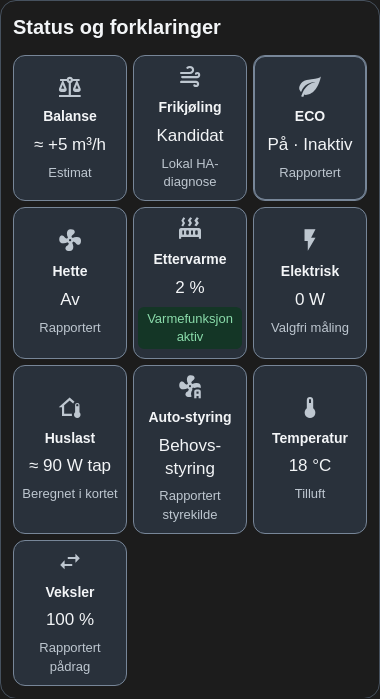
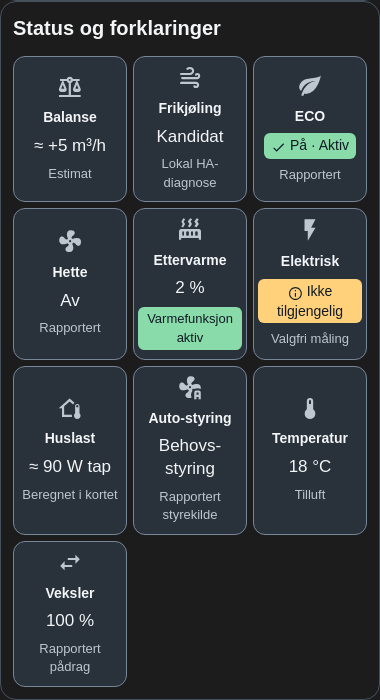
Release 1.6.1: stronger Settings and Status highlights

diff --git a/vsr300-cards.js b/vsr300-cards.js
@@ -1,4 +1,4 @@
-/* VSR300 custom cards · version 1.6.0 · 2026-11-10
+/* VSR300 custom cards · version 1.6.1 · 2026-11-10
  * SPDX-License-Identifier: MIT
  * Copyright (c) 2026 stboee
  * Based on Systemair SVG / Kontrollpanel 4.8.1.
@@ -8,7 +8,7 @@
  */
 (() => {
   'use strict';
-  const VERSION = '1.6.0';
+  const VERSION = '1.6.1';
   const FIELD = (key, label, domain, defaultId, extra = {}) => ({ key, label, domain, defaultId, ...extra });
   const SVG_FIELDS = [
     FIELD('mode', 'Rapportert driftsmodus', 'sensor', 'sensor.systemair_save_modus'),
@@ -719,6 +719,24 @@ const portRow = (role, x, y, height, content) => `<g ${action(role)}><rect class
     .setting-topic{min-height:144px}.settings-menu{gap:8px}.panel-title ha-icon{color:var(--vsr-secondary)}
     @container(max-width:380px){ha-card{padding:12px}.status-grid,.duration-mode-grid{gap:6px}.status-button,.duration-choice{padding:9px 4px}.setting-topic{min-height:144px}}
   `;
+  // Settings and explanations use the same filled highlights as Control.
+  // Kept separate from UI_STYLE so Control and Cockpit remain unchanged.
+  const STRONG_HIGHLIGHT_STYLE = `
+    :host{--vsr-on-status:light-dark(#ffffff,#101a26)}
+    .status-button[aria-expanded=true],.setting-topic[aria-expanded=true]{background:var(--vsr-blue);border-color:var(--vsr-blue);color:var(--vsr-on-blue);box-shadow:none}
+    .status-button[aria-expanded=true]>ha-icon,.setting-topic[aria-expanded=true]>ha-icon{color:inherit}
+    .status-button[aria-expanded=true] .reading:not(.state-chip),.status-button[aria-expanded=true] .kind:not(.state-chip),.setting-topic[aria-expanded=true] .setting-reading,.setting-topic[aria-expanded=true] .setting-sub{color:var(--vsr-on-blue)}
+    @media(hover:hover){.status-button[aria-expanded=true]:hover,.setting-topic[aria-expanded=true]:hover{box-shadow:inset 0 0 0 1px var(--vsr-on-blue)}}
+    .state-chip[data-tone=active],.status-button .reading.state-chip[data-tone=active],.status-button .kind.state-chip[data-tone=active]{background:var(--vsr-green);color:var(--vsr-on-status)}
+    .state-chip[data-tone=attention],.status-button .reading.state-chip[data-tone=attention],.status-button .kind.state-chip[data-tone=attention]{background:var(--vsr-amber);color:var(--vsr-on-status)}
+    .state-chip[data-tone=danger],.status-button .reading.state-chip[data-tone=danger]{background:var(--vsr-red);color:var(--vsr-on-status)}
+    .state-chip ha-icon{color:inherit}
+    .status-button .reading.state-chip{display:block}
+    .status-button .reading.state-chip ha-icon{--mdc-icon-size:15px;margin-right:4px;vertical-align:-3px}
+    .notice{background:var(--vsr-amber);color:var(--vsr-on-status)}
+    .error,.setting-error{background:var(--vsr-red);color:var(--vsr-on-status)}
+    .setting-feedback:not(.setting-error){background:var(--vsr-field);border-left:4px solid var(--vsr-blue)}
+  `;
   // Presentation is scoped to these three cards; Cockpit keeps its own palette.
   class StyledCard extends BaseCard {
     set hass(value) {
@@ -1348,7 +1366,7 @@ const portRow = (role, x, y, height, content) => `<g ${action(role)}><rect class
       if (oldDetails) this._technicalOpen[oldDetails.dataset.technicalTopic] = oldDetails.open;
       const topics = this._visibleTopics(), topic = topics.find(item => item.key === this._selected);
       if (!topic) this._selected = null;
-      this.shadowRoot.innerHTML = `<style>${SHARED_STYLE}${EXPLANATION_STYLE}${UI_STYLE}</style><ha-card>${this._heading()}${this._missingNotice()}<div class="status-grid">${topics.map(item => {
+      this.shadowRoot.innerHTML = `<style>${SHARED_STYLE}${EXPLANATION_STYLE}${UI_STYLE}${STRONG_HIGHLIGHT_STYLE}</style><ha-card>${this._heading()}${this._missingNotice()}<div class="status-grid">${topics.map(item => {
         const status = statuses[item.key];
         const marked = status.tone && status.tone !== 'neutral';
         const marker = status.tone === 'active' ? 'mdi:check' : status.tone === 'danger' ? 'mdi:alert-circle-outline' : 'mdi:information-outline';
@@ -1491,7 +1509,7 @@ const portRow = (role, x, y, height, content) => `<g ${action(role)}><rect class
       for(const detail of this.shadowRoot.querySelectorAll('details[data-details]'))this._detailsOpen[detail.dataset.details]=detail.open;
       const focus=this.shadowRoot.activeElement?.dataset.focusKey||this._pendingFocus;
       const sections=SETTING_SECTIONS.filter(s=>this._config['show_'+s.key]),section=sections.find(s=>s.key===this._section),summaries=this._summaries();if(!section)this._section=null;
-      this.shadowRoot.innerHTML=`<style>${SHARED_STYLE}${SETTINGS_STYLE}${UI_STYLE}</style><ha-card>${this._heading()}<div class="settings-menu">${sections.map(s=>`<button class="setting-topic" type="button" data-section="${s.key}" data-focus-key="topic-${s.key}" aria-expanded="${this._section===s.key}" aria-controls="settings-content"><ha-icon icon="${s.icon}" aria-hidden="true"></ha-icon><strong>${s.name}</strong><span class="setting-reading">${escape(summaries[s.key].label)}</span><span class="setting-sub">${escape(summaries[s.key].sub)}</span></button>`).join('')}</div><div class="setting-feedback" role="status">${escape(this._message)}</div><div class="setting-feedback setting-error" role="alert">${escape(this._error)}</div><div id="settings-content">${section?this._panel(section):''}</div>${sections.length?'':'<p>Velg hvilke temaer som skal vises i kortets oppsett.</p>'}</ha-card>`;
+      this.shadowRoot.innerHTML=`<style>${SHARED_STYLE}${SETTINGS_STYLE}${UI_STYLE}${STRONG_HIGHLIGHT_STYLE}</style><ha-card>${this._heading()}<div class="settings-menu">${sections.map(s=>`<button class="setting-topic" type="button" data-section="${s.key}" data-focus-key="topic-${s.key}" aria-expanded="${this._section===s.key}" aria-controls="settings-content"><ha-icon icon="${s.icon}" aria-hidden="true"></ha-icon><strong>${s.name}</strong><span class="setting-reading">${escape(summaries[s.key].label)}</span><span class="setting-sub">${escape(summaries[s.key].sub)}</span></button>`).join('')}</div><div class="setting-feedback" role="status">${escape(this._message)}</div><div class="setting-feedback setting-error" role="alert">${escape(this._error)}</div><div id="settings-content">${section?this._panel(section):''}</div>${sections.length?'':'<p>Velg hvilke temaer som skal vises i kortets oppsett.</p>'}</ha-card>`;
       if(focus)Array.from(this.shadowRoot.querySelectorAll('[data-focus-key]')).find(el=>el.dataset.focusKey===focus)?.focus({preventScroll:true});
     }
   }

diff --git a/README.md b/README.md
@@ -4,7 +4,7 @@ Four Home Assistant cards for Systemair SAVE VSR300: **Systemair SVG**,
 **Systemair Kontrollpanel**, **Systemair Status og forklaringer**, and optional
 **Systemair Innstillinger**,
 with graphical entity selection. Current card
-version: **1.6.0**. Reference setup: HA 2026.10.2 and
+version: **1.6.1**. Reference setup: HA 2026.10.2 and
 [Howard systemair_modbus 1.3.0](https://github.com/Howard0000/home-assistant-systemair-modbus).
 
 [Norsk veiledning](README.nb.md)
@@ -27,7 +27,7 @@ once through HACS. Keep the existing card configurations.
 
 1. Download [vsr300-cards.js](vsr300-cards.js) using GitHub's **Download raw file** button.
 2. Copy it to `/config/www/vsr300/vsr300-cards.js` in Home Assistant. Create the `vsr300` folder if needed.
-3. Add a dashboard resource with URL **`/local/vsr300/vsr300-cards.js?v=1.6.0`** and type **JavaScript module**.
+3. Add a dashboard resource with URL **`/local/vsr300/vsr300-cards.js?v=1.6.1`** and type **JavaScript module**.
 4. Fully reload the browser, edit the dashboard and add the cards you want from the card picker.
 
 ## Configure the cards
@@ -76,7 +76,18 @@ local diagnosis and electrical-meter entities. Clear optional fields you do not
 use. Keep the old YAML card until the new card's configuration is checked, then
 replace it. The SVG and control card configurations stay as they are.
 
-## Changes in 1.6.0
+## Changes in 1.6.1
+
+Settings and Status og forklaringer now use the same stronger filled highlights
+as Control. Open fields are blue; reported activity, missing/uncertain data and
+actual faults have stronger green, amber and red markers with contrasting text
+and icons. Status text retains the meaning; colors do not change measurements.
+
+Cockpit and Control are unchanged apart from the package version. Entity
+bindings, editing, history and all commands are retained. Update through HACS
+and fully reload each browser. Keep existing cards and entity selections.
+
+## History — 1.6.0
 
 Control uses stronger filled highlights. Tap Ildsted, Boost, Party, Borte or
 Ferie directly to open its duration and start options without sending commands.

diff --git a/README.nb.md b/README.nb.md
@@ -3,7 +3,7 @@
 Fire Home Assistant-kort for Systemair SAVE VSR300: **Systemair SVG**,
 **Systemair Kontrollpanel**, **Systemair Status og forklaringer** og det valgfrie
 **Systemair Innstillinger**,
-med grafisk valg av entiteter. Kortversjon: **1.6.0**.
+med grafisk valg av entiteter. Kortversjon: **1.6.1**.
 Referanseoppsettet er HA 2026.10.2 og
 [Howard systemair_modbus 1.3.0](https://github.com/Howard0000/home-assistant-systemair-modbus).
 
@@ -25,7 +25,7 @@ HACS. Behold eksisterende kortoppsett.
 
 1. Last ned [vsr300-cards.js](vsr300-cards.js) med GitHubs **Download raw file**-knapp.
 2. Kopier filen til `/config/www/vsr300/vsr300-cards.js` i Home Assistant. Opprett mappen `vsr300` ved behov.
-3. Legg til en dashboardressurs med URL **`/local/vsr300/vsr300-cards.js?v=1.6.0`** og type **JavaScript-modul**.
+3. Legg til en dashboardressurs med URL **`/local/vsr300/vsr300-cards.js?v=1.6.1`** og type **JavaScript-modul**.
 4. Last nettlesersiden helt på nytt. Rediger dashboardet og legg til kortene du ønsker fra kortvelgeren.
 
 ## Oppsett av kortene
@@ -74,7 +74,18 @@ lokale diagnose- og effektmålerentitetene. Tøm valgfrie felt du ikke bruker.
 Behold det gamle YAML-kortet til oppsettet i det nye er kontrollert, og erstatt
 så det gamle kortet. SVG- og Kontrollpanel-oppsettene beholdes.
 
-## Endringer i 1.6.0
+## Endringer i 1.6.1
+
+Innstillinger og Status og forklaringer bruker nå de samme sterkere, fylte
+uthevingene som Kontrollpanel. Åpne felt er blå. Rapportert aktivitet,
+manglende/usikre data og faktiske feil får sterkere grønne, ravgule og røde
+merker, med lesbar tekst og symboler. Betydningen og verdiene er uendret.
+
+Cockpit og Kontrollpanel er uendret bortsett fra pakkeversjonen. Entitetsvalg,
+betjening og historikk beholdes. Oppdater gjennom HACS og last nettleseren helt
+på nytt på PC og mobil. Behold kortene og entitetskoblingene.
+
+## Historikk – 1.6.0
 
 Kontrollpanel har sterkere, fylte uthevingsfarger. Trykk direkte på Ildsted,
 Boost, Party, Borte eller Ferie for å åpne varighet og startvalg. Dette sender

diff --git a/VERIFIKASJON.md b/VERIFIKASJON.md
@@ -1,4 +1,31 @@
-# Verifikasjon – 1.6.0 – 2026-11-10
+# Verifikasjon – 1.6.1 – 2026-11-10
+
+## Gjennomført lokalt – 1.6.1
+
+Tre avgrensede kontrollgrupper består med simulerte HA-data:
+
+- Hele JavaScript-pakken er byte-identisk med 1.6.0 etter fjerning av bare det
+  nye CSS-oppsettet, dets to renderreferanser og versjonsstrengene. Alle fire
+  standardkoblinger er identiske. Cockpit, Kontrollpanel, beregninger og
+  funksjonell kode er uendret.
+- Åpne felt i Innstillinger og Status/forklaringer matcher Kontrollpanelets
+  fylte blå bakgrunn. Grønn aktivitetsmarkering og forgrunn matcher også.
+  Ukjente data og varseltekst bruker samme sterke ravgule fyll; feil er røde.
+  Ti representative tekstpar per tema er målt til minst 6,48:1, over målet
+  på 4,5:1. Tall beholder sin betydning og ordinære, nøytrale presentasjon.
+- Lyst og mørkt tema ved 320/360/412/900 CSS-piksler passer uten horisontal
+  overflyt. Tre statuskolonner, 44-pikslers innstillingskontroller, tydelig
+  tastaturfokus, historikk og utkast gjennom temaendringer består. Åpning,
+  lukking og historikk sendte ingen tjenestekall. Ingen sidefeil eller
+  eksterne forespørsler ble registrert i testnettleseren.
+
+Skjermbilder bruker simulerte data og lokale native MDI-symboler. Dette er
+lokal presentasjonskontroll, ikke en ny test på brukerens HA eller VSR300.
+Ingen HA-konfigurasjon, entiteter, integrasjonskode eller Modbus endres.
+Faktisk HACS-oppdatering og visning i HA gjenstår. Tagg, manifest og
+releasefilens sjekksum kontrolleres etter publisering.
+
+## Historisk kontrollgrunnlag – 1.6.0
 
 ## Gjennomført lokalt – 1.6.0
 

diff --git a/CHANGELOG.md b/CHANGELOG.md
@@ -1,5 +1,19 @@
 # Changelog
 
+## 1.6.1 — 2026-11-10
+
+- Apply Control's stronger filled blue selections and green activity markers to
+  Settings and Status/explanations. Strengthen amber unknown/uncertain markers
+  and red faults/service errors with matching high-contrast foregrounds.
+- Keep values neutral and preserve state meanings. Selected fields retain
+  keyboard focus, readable secondary labels and distinct status chips. Let
+  status text wrap beside small inline icons on narrow screens.
+- Cockpit and Control are unchanged apart from the package version. All entity
+  mappings, calculations and service behavior are unchanged; the only source
+  additions are scoped CSS and its two render references.
+- Local scoped checks cover theme/color parity, contrast, mobile layout,
+  history, focus and retained drafts. Update documentation and simulated images.
+
 ## 1.6.0 — 2026-11-10
 
 - Strengthen only Control highlights with filled blue selection and higher

diff --git a/SOURCES.md b/SOURCES.md
@@ -79,6 +79,12 @@ an atomic transaction. Partial failure is explicit. Ildsted remains a read-only
 sensor; no writable source is invented. Other card classes/styles and Cockpit
 were compared with 1.5.0, alongside local simulated service/UI checks.
 
+Version 1.6.1, 2026-11-10, changes only scoped CSS for Settings and explanations.
+After removing the CSS block, its two render references and version strings,
+the entire bundle is byte-identical to 1.6.0. Strong selections and activity
+markers were compared with Control in a local browser. There are no new source
+entities, calculations, register assumptions or physical-unit test claims.
+
 ## External software and documentation
 
 | Source | Use in this package |

diff --git a/SETTINGS.md b/SETTINGS.md
@@ -1,4 +1,4 @@
-# Innstillinger – kortpakke 1.6.0
+# Innstillinger – kortpakke 1.6.1
 
 Et valgfritt fjerde kort i samme JavaScript-pakke. Oppdater gjennom HACS,
 last dashboardet på nytt og legg til **Systemair Innstillinger** fra kortvelgeren:

diff --git a/ENTITETSKART.md b/ENTITETSKART.md
@@ -1,4 +1,4 @@
-# Entitetskart – kortpakke 1.6.0
+# Entitetskart – kortpakke 1.6.1
 
 Startkoblingene er eksempler fra én installasjon. Velg dine entiteter i hvert
 korts grafiske editor. Lagrede koblinger er autoritative; tømte felt blir ikke

diff --git a/EXPLANATIONS.md b/EXPLANATIONS.md
@@ -1,4 +1,4 @@
-# Status og forklaringer – 1.6.0
+# Status og forklaringer – 1.6.1
 
 Det tredje kortet i samme pakke som SVG og Kontrollpanel:
 
